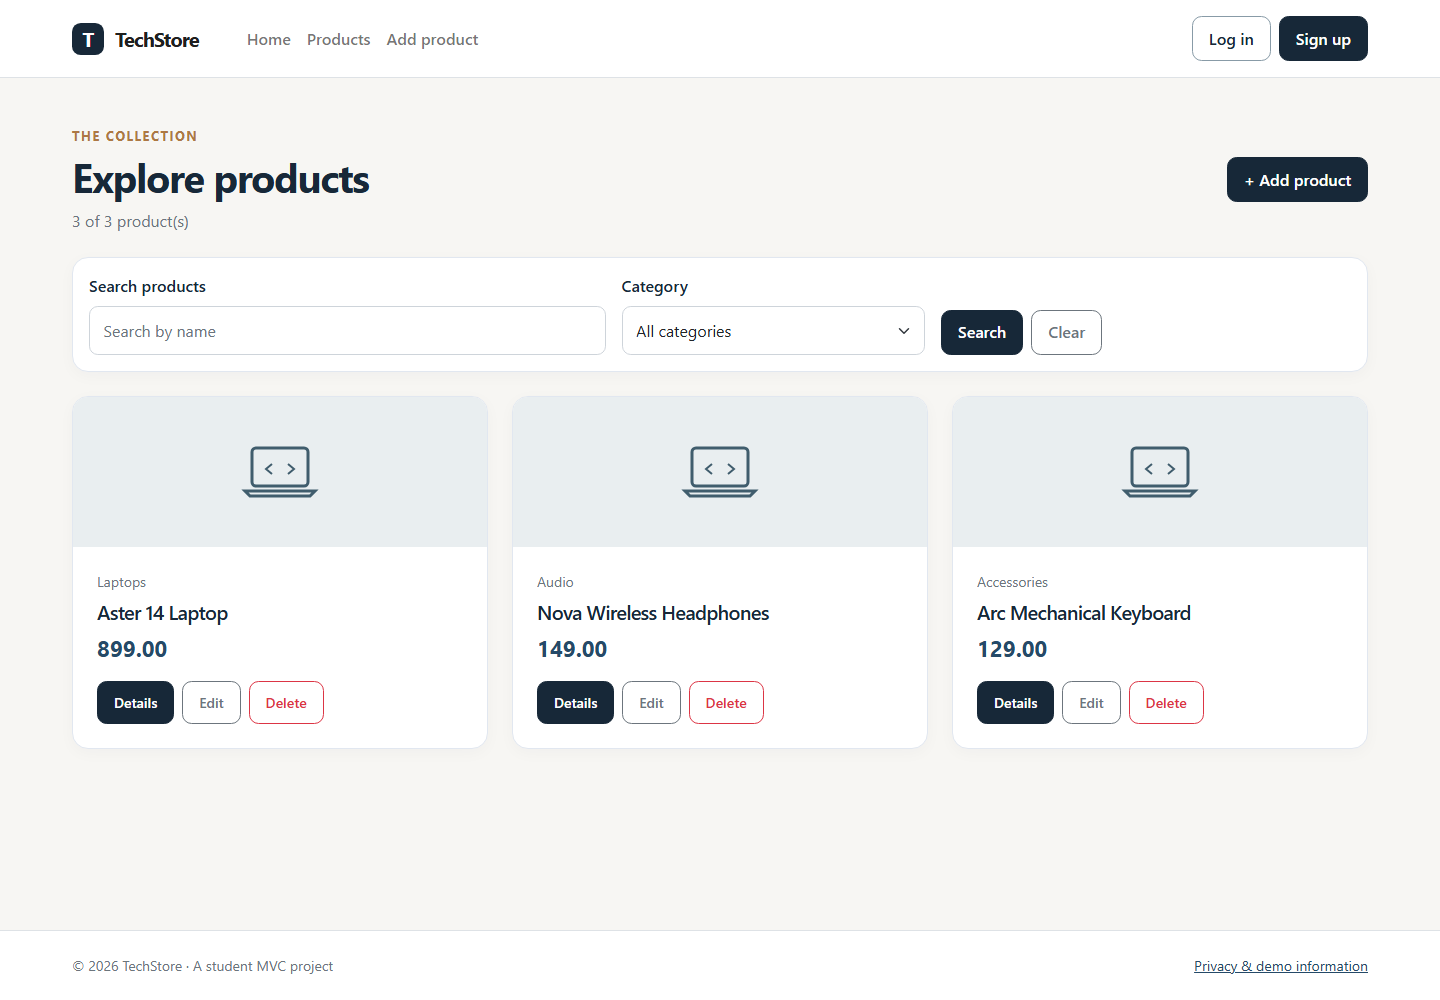
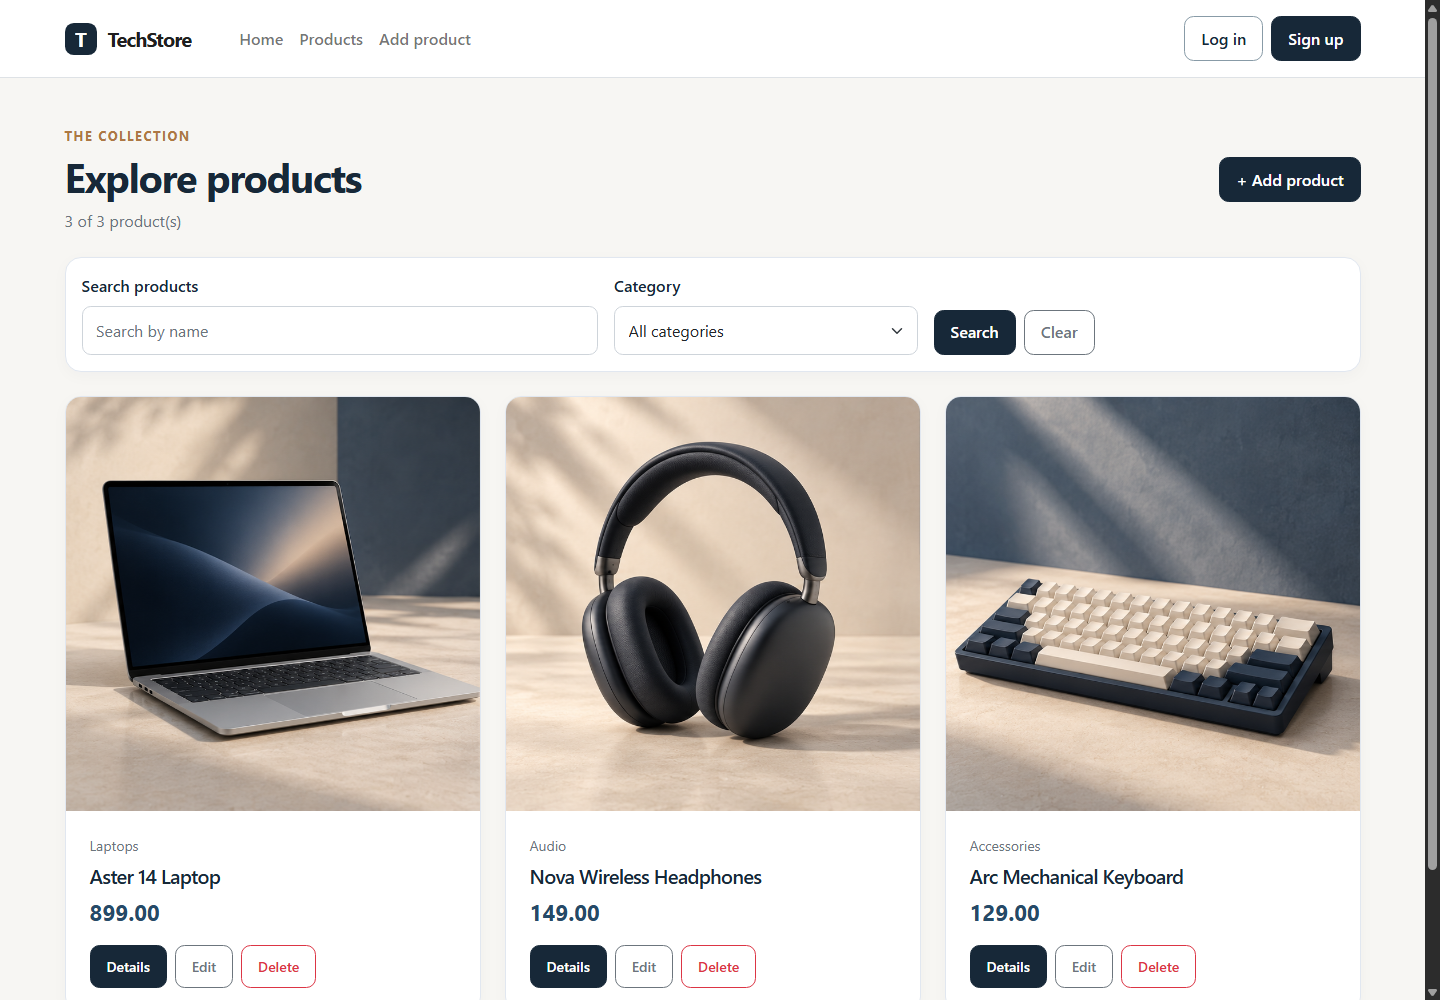
Add product photography and richer storefront gallery

diff --git a/techstore/wwwroot/css/site.css b/techstore/wwwroot/css/site.css
@@ -69,3 +69,7 @@ a{color:#254a68}
 .storefront-features h3{font-size:1.3rem;margin:1rem 0 .5rem}
 .storefront-features p{color:#66757b;margin:0}
 @media(max-width:767px){.storefront-hero{grid-template-columns:1fr;min-height:0}.device-stage{height:230px;transform:none}.device-screen{height:210px}.device-base{bottom:0}.storefront-features{grid-template-columns:1fr}.storefront-intro{padding-top:3rem}}
+.product-visual.product-photo{display:block;min-height:0;aspect-ratio:1/1;background-image:url('/images/demo/tech-products-triptych.png');background-size:300% 100%;background-repeat:no-repeat}
+.product-photo--laptop{background-position:left center}
+.product-photo--audio{background-position:center center}
+.product-photo--keyboard{background-position:right center}

diff --git a/README.md b/README.md
@@ -1,4 +1,8 @@
-# TechStore E-Commerce
+![TechStore E-Commerce cover](docs/cover.svg)
+
+# TechStore E-Commerce
+
+[Screenshots](#screenshots) | [Features](#features) | [Run locally](#run-locally)
 
 TechStore is the main ASP.NET Core MVC storefront in this workspace, built with C# and .NET 8.
 
@@ -52,19 +56,23 @@ The project includes basic authentication security improvements:
 
 ## Screenshots
 
-New screenshots captured from the running local application. The product cards show three temporary example products added only for the catalog screenshot; a fresh run starts with an empty in-memory catalog.
+Captured from the running local application. The product cards show three temporary example products added only for the gallery; a fresh run starts with an empty in-memory catalog. Laptop, audio, and accessories use illustrative generated studio photography, not photos of real inventory. Other categories retain the neutral placeholder.
 
-### Home Page
-![Home Page](./screenshots/home-new.png)
+| Storefront | Product catalog |
+| --- | --- |
+| ![TechStore home page](screenshots/home-new.png) | ![TechStore product catalog](screenshots/products-new.png) |
 
-### Products Page
-![Products Page](./screenshots/products-new.png)
+| Product details | Narrow storefront |
+| --- | --- |
+| ![Product detail page](screenshots/product-detail.png) | ![TechStore on a narrow screen](screenshots/home-mobile.png) |
 
-### Login Page
-![Login Page](./screenshots/login-new.png)
+<details><summary>Account screens</summary>
 
-### Sign Up Page
-![Sign Up Page](./screenshots/signup-new.png)
+| Login | Sign up |
+| --- | --- |
+| ![TechStore login](screenshots/login-new.png) | ![TechStore sign up](screenshots/signup-new.png) |
+
+</details>
 
 ## Project Structure
 
